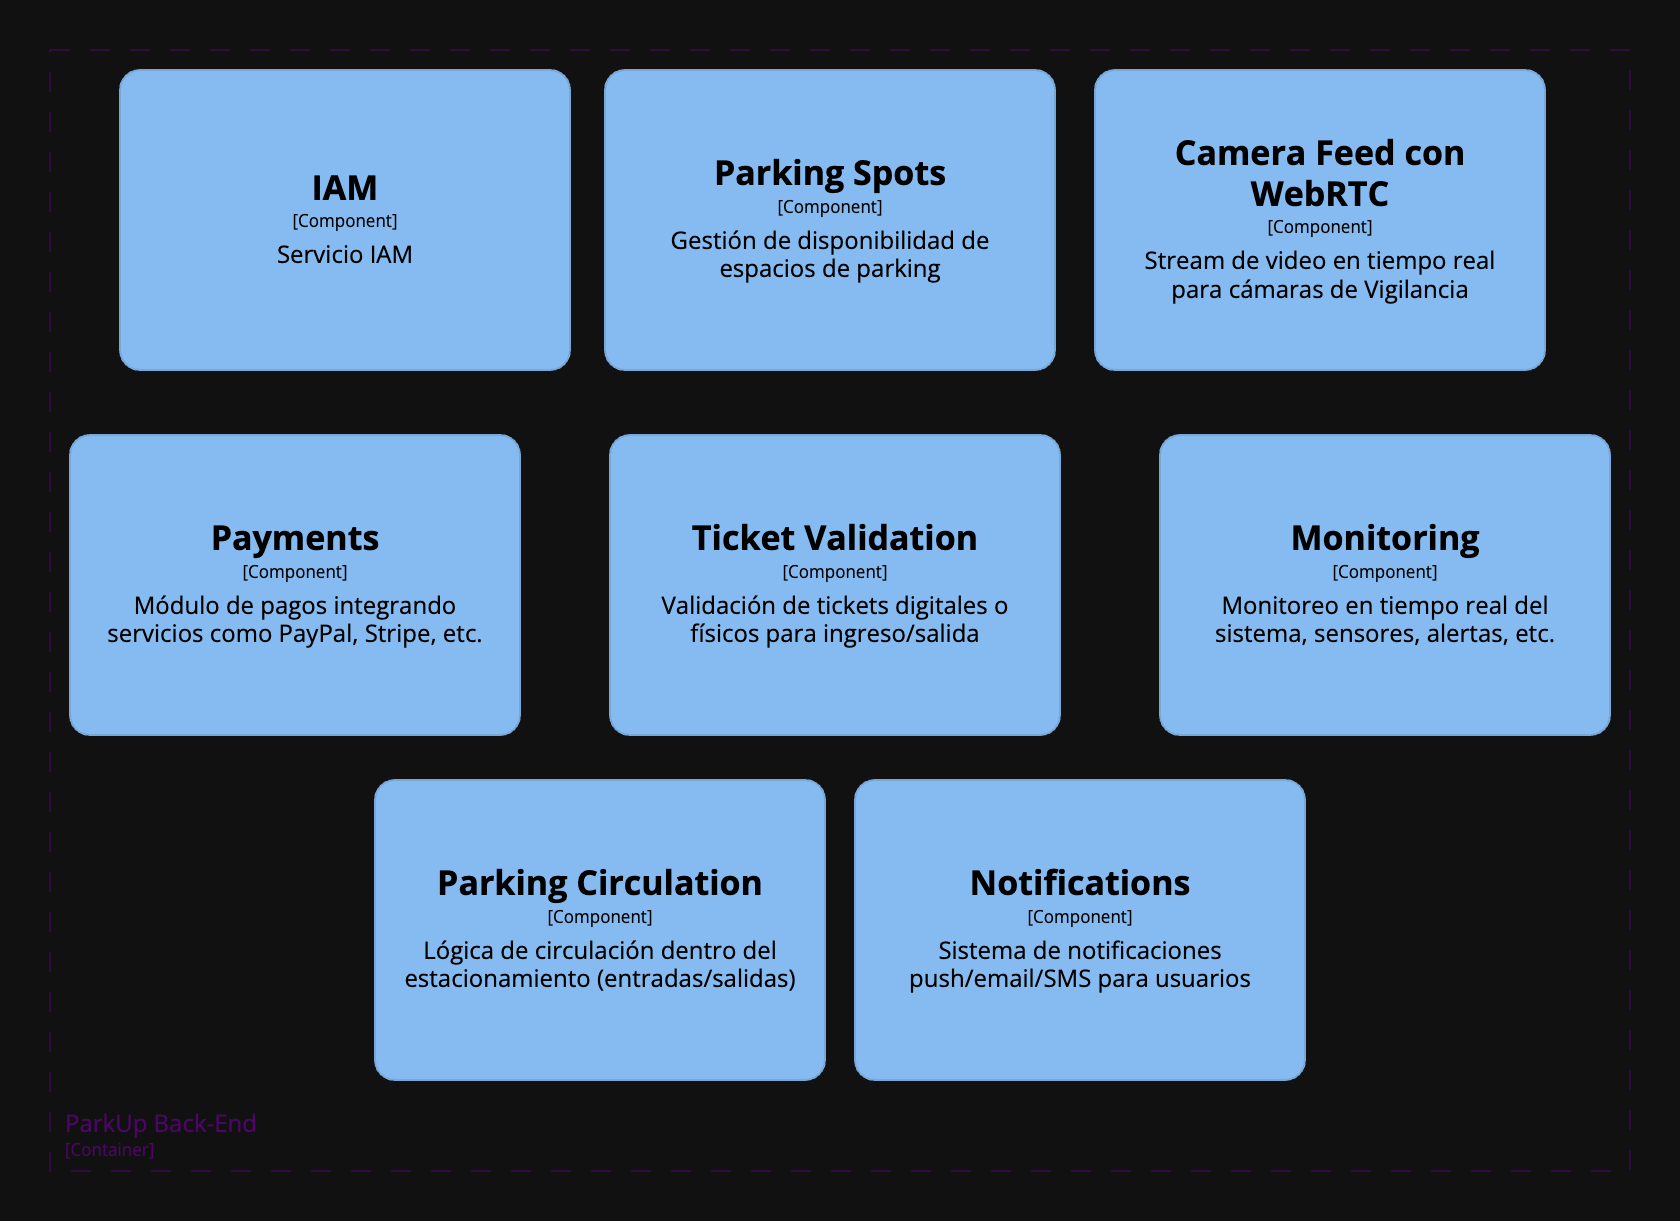
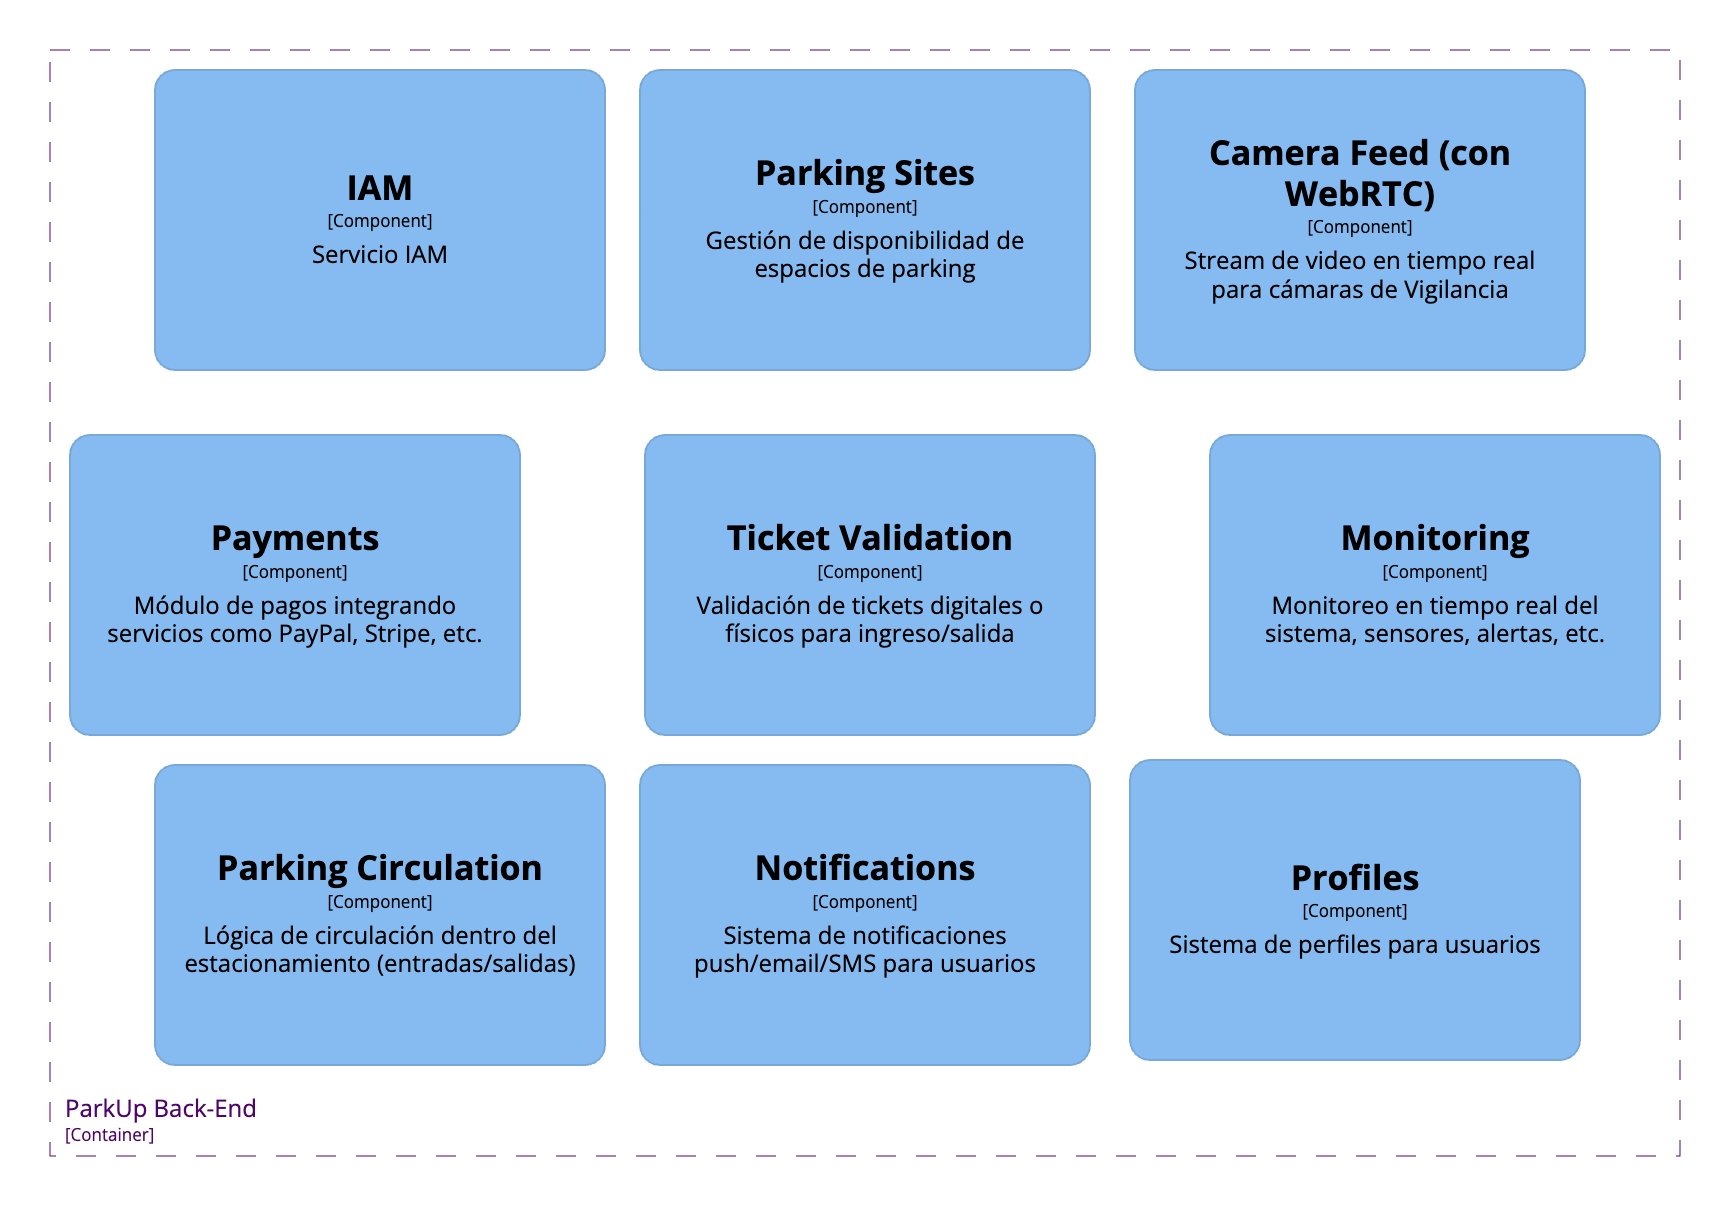
fix: c4

diff --git a/README.md b/README.md
@@ -1325,19 +1325,20 @@ Este diagrama muestra el ecosistema completo en el que opera **ParkUp IoT System
 
 ![4.1.3-Container.png](assets/capitulo-4/4.1.3-Container.png)
 
-| Contenedor             | Tecnología                | Responsabilidad                                                                               |
-|------------------------|---------------------------|------------------------------------------------------------------------------------------------|
-| **ParkUp Mobile App**  | Flutter (Android/iOS)     | Interfaz del conductor: reserva, pago, estado de plazas.                                       |
-| **ParkUp Web App SPA** | Angular                   | Panel para administradores y staff; alertas en tiempo real.                                    |
-| **ParkUp API**         | Spring Boot (REST + WS)   | Lógica central: tickets, pagos, sincronización IoT.                                            |
-| **Base de Datos Central** | PostgreSQL             | Usuarios, reservas, pagos, eventos históricos.                                                 |
-| **IoT Edge App**       | Docker (Go/Node)          | Procesamiento local y caché offline por sede.                                                  |
-| **Edge Database**      | TimescaleDB               | Buffer de eventos y métricas locales.                                                          |
-| **IoT Gateway**        | Go en Raspberry Pi        | Puente entre dispositivos y red ParkUp.                                                        |
-| **Sensores Vehiculares** | Ultrasonic / IR         | Detectan presencia de vehículos.                                                               |
-| **Lectores Entrada Salida** | PLC / Modbus        | Operan barreras y tickets.                                                                     |
-| **Cámaras Videovigilancia** | IP Cams, RTSP        | Streams de vídeo para seguridad.                                                               |
-| **Pasarela de Pagos**  | REST API externa          | Procesamiento de tarjetas y billeteras digitales.                                              |
+| Contenedor                  | Tecnología              | Responsabilidad                                             |
+|-----------------------------|-------------------------|-------------------------------------------------------------|
+| **ParkUp Mobile App**       | Flutter (Android/iOS)   | Interfaz del conductor: reserva, pago, estado de plazas.    |
+| **ParkUp Web App SPA**      | Angular                 | Panel para administradores y staff; alertas en tiempo real. |
+| **ParkUp API**              | Spring Boot (REST + WS) | Lógica central: tickets, pagos, sincronización IoT.         |
+| **Base de Datos Central**   | PostgreSQL              | Usuarios, reservas, pagos, eventos históricos.              |
+| **IoT Edge App**            | Docker (Go/Node)        | Procesamiento local y caché offline por sede.               |
+| **Edge Database**           | TimescaleDB             | Buffer de eventos y métricas locales.                       |
+| **IoT Gateway**             | Raspberry Pi            | Puente entre dispositivos y red ParkUp.                     |
+| **Sensores Vehiculares**    | Ultrasonic / IR         | Detectan presencia de vehículos.                            |
+| **Lectores Entrada Salida** | PLC / Modbus            | Operan barreras y tickets.                                  |
+| **Cámaras Videovigilancia** | IP Cams, RTSP           | Streams de vídeo para seguridad.                            |
+| **Pasarela de Pagos**       | REST API externa        | Procesamiento de tarjetas y billeteras digitales.           |
+| **API Gateway**             | AWS                     | Puente entre dispositivos de usuarios y red ParkUp.         |
 
 
 #### 4.1.3.4. Software Architecture Deployment Diagrams
@@ -1386,16 +1387,18 @@ Este diagrama muestra el ecosistema completo en el que opera **ParkUp IoT System
 
 ![4.1.3-Components.png](assets/capitulo-4/4.1.3-Components.png)
 
-| Componente                  | Propósito clave                                                                 |
-|-----------------------------|---------------------------------------------------------------------------------|
-| **Auth Service**            | Gestión de usuarios, OIDC, JWT, MFA.                                            |
-| **Reservation Service**     | Disponibilidad de plazas y cálculo de tarifas.                                  |
-| **Ticket Validation**       | Verifica QR y códigos de barras.                                                |
-| **Payment Service**         | Integra Stripe, PayPal, Yape; maneja reversas y conciliación.                   |
-| **Device Command Service**  | Envía órdenes a **IoT Gateway** (abrir barrera, reset sensor).                  |
-| **Sync Service**            | Replica eventos entre **Edge Database** y **Base de Datos Central**.            |
-| **Monitoring Service**      | Métricas Prometheus, health-checks, reglas de alerta.                           |
-| **Notification Service**    | Push FCM, emails SendGrid, SMS Twilio a conductores y administradores.          |
+| Componente                 | Propósito clave                                                        |
+|----------------------------|------------------------------------------------------------------------|
+| **Auth Service**           | Gestión de usuarios, OIDC, JWT, MFA.                                   |
+| **Reservation Service**    | Disponibilidad de plazas y cálculo de tarifas.                         |
+| **Ticket Validation**      | Verifica QR y códigos de barras.                                       |
+| **Payment Service**        | Integra Stripe, PayPal, Yape; maneja reversas y conciliación.          |
+| **Device Command Service** | Envía órdenes a **IoT Gateway** (abrir barrera, reset sensor).         |
+| **Sync Service**           | Replica eventos entre **Edge Database** y **Base de Datos Central**.   |
+| **Monitoring Service**     | Métricas Prometheus, health-checks, reglas de alerta.                  |
+| **Notification Service**   | Push FCM, emails SendGrid, SMS Twilio a conductores y administradores. |
+| **Profiles Service**       | Información personal del usuario que no sea para autenticarse.         |
+
 
 ## 4.2.X. Bounded Context: <Payments & Notifications>
 
